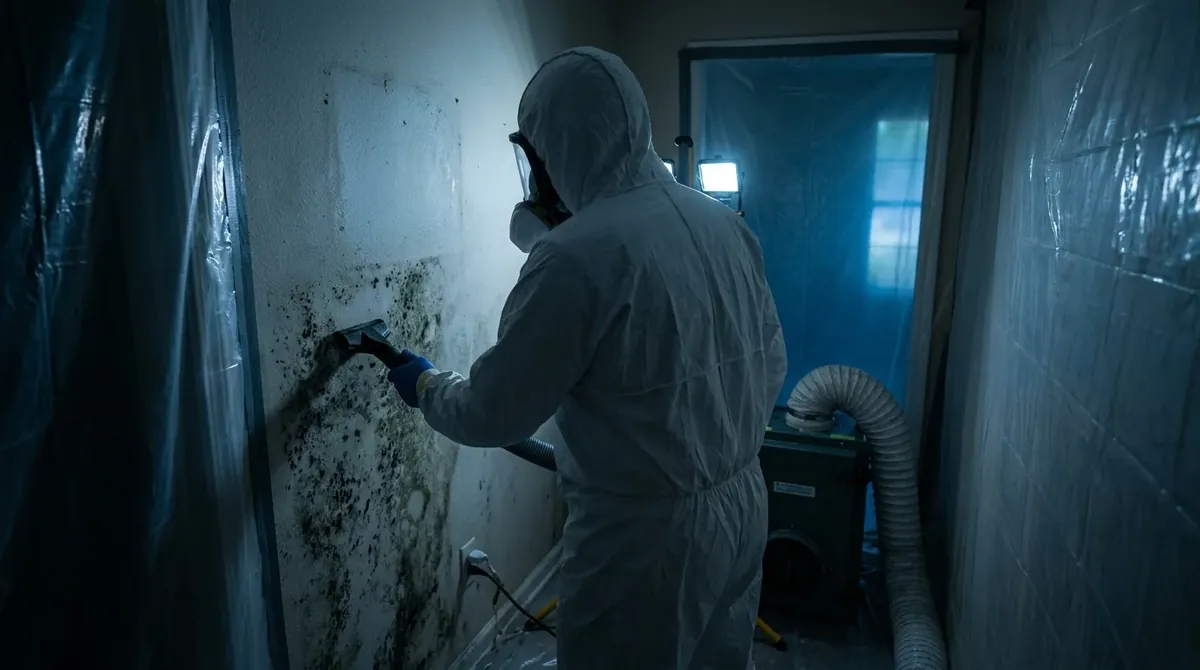
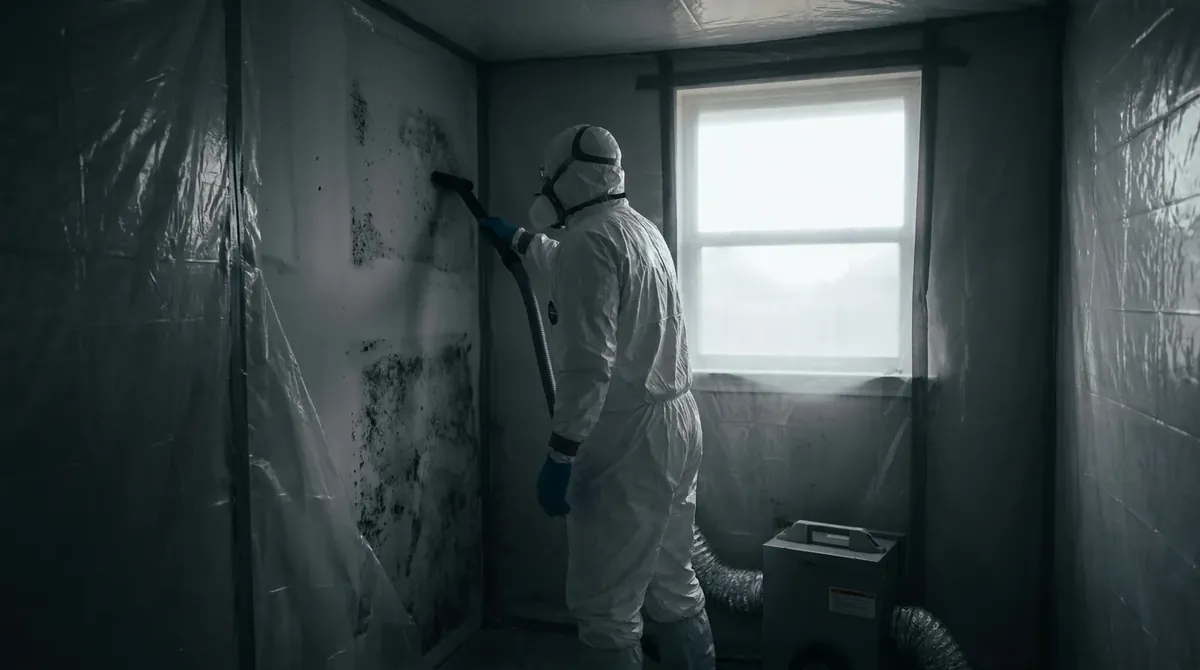
DEV AGENT: reign-restoration — brighter sky on the mold hero (Jerrott's 08-08 ask)
Jerrott: "Can we also change the sky from dark gloomy to brighter?" —
said of the mold remediation service-page hero. Encoded as CLIENT
DIRECTION rule 6 (within the 8000-char head cap, at ~5.3k) plus a scoped
carve-out on the MOOD-OVERRIDE line, so the correction survives future
regenerations instead of living only in this commit.

Regenerated the image. Attempt 1 rejected: exterior through the window
still read dark blue-grey gloom. Accepted attempt 2: bright soft-daylight
sky through the containment window, clearly lighter than the frame's
shadows, while the interior grade stays low-key. Rule 5 (containment
depicted truthfully) holds: nozzle works the exposed mold-stained wall
directly, poly sheeting is the room barrier only. PPE sealed, hood up.

astro build: 146 pages green.

diff --git a/clients/reign-restoration/image-style-guide.md b/clients/reign-restoration/image-style-guide.md
@@ -51,6 +51,7 @@
 3. **DARK, MOODY, EXPENSIVE.** Low-key lighting, deep shadows, near-black values. Blue hour, overcast, twilight, or dim interiors lit by practical work lights — never bright midday sun, never a bright open sky, never a cheerful golden-hour postcard. Blacks and charcoals dominate the frame; warm gold is the ONLY accent colour. Luxury-automotive advertising applied to a restoration company: restrained, high-contrast, expensive.
 4. **NO STOCK-PHOTO CHEER.** Nobody smiles at the camera, nobody lines up for a posed group portrait. Crew wear all-black uniforms with a small gold chest mark.
 5. **MOLD CONTAINMENT MUST BE DEPICTED TRUTHFULLY (Jerrott Gray, 2026-08-06).** *"When you click on service page first photo for mold remediation, the man in the photo is vacuuming plastic covered mold. Containment is correct, but depiction of containment is not."* He is NOT objecting to the poly sheeting being present — he is saying you do not clean mold THROUGH the plastic. On the mold-remediation image the technician works the **EXPOSED, uncovered mold-stained surface directly** — HEPA-vacuum nozzle or scrub tool in contact with the bare contaminated wall, visible black/green mold growth on that surface. The clear poly-sheeting containment is the **barrier that walls off the room** — hung on the surrounding walls, stapled over the doorway, draped behind and beside the worker — and NEVER laid over, taped across, or covering the surface being cleaned. AUTOMATIC REJECT: any frame where the containment plastic covers the mold being worked, where the tool contacts the plastic instead of the exposed mold, or where the worker is cleaning a plastic-covered surface. The plastic is the wall of the tent, not the thing he vacuums.
+6. **THE MOLD-REMEDIATION IMAGE SKY IS BRIGHTER (Jerrott Gray, 2026-08-08).** *"Can we also change the sky from dark gloomy to brighter?"* — said of the mold remediation service-page hero. In that frame any visible sky reads BRIGHT: soft daylight or light overcast, clearly lighter than the frame's shadows. The grade stays restrained and expensive; the carve-out is the sky, not the mood. This outranks rule 3 and the MOOD-OVERRIDE sky clause for this image only. AUTOMATIC REJECT: a dark, gloomy or stormy sky in the mold-remediation image.
 
 ## THE LIVERY — one spec, copied exactly, every image (2026-08-05)
 
@@ -82,7 +83,7 @@ VAN-OVERRIDE: a fleet of two to three matching satin-BLACK cargo vans, black bum
 
 CREW-OVERRIDE: the technician wears an all-black company uniform (black work shirt, black work pants) with a small gold crest embroidered on the chest and clean fitted nitrile work gloves on BOTH hands whenever handling anything, working in low-key moody light with deep shadows, shown from behind or in three-quarter profile with the face turned away from the camera and never smiling at it; PPE is worn ONLY where the scene shows active remediation work, and where it appears it is FULLY SEALED: white Tyvek coverall zipped ALL the way to the throat with the zipper closed to the chin, hood UP and drawn over the head and hair, respirator strapped and sealed to the face, nitrile gloves ON BOTH HANDS and taped at the wrists, boot covers on. NOT ONE SQUARE INCH of the black company uniform, its gold chest crest, a collar, a T-shirt or any other garment may be visible anywhere through, under or above the suit: the suit is closed over all of it, and if a crest is showing then the suit is open and the image is REJECTED. A hood down, a suit unzipped or worn open like a jacket, a suit tied around the waist, a respirator worn with no hood, or bare hands touching anything is a REJECTED image. In a portrait, group or parked-fleet scene where nobody is working, the crew wear the black uniform and NO PPE at all
 
-MOOD-OVERRIDE: shot at blue hour or under heavy overcast in low-key cinematic light, deep shadows and near-black values, dark moody sky with no bright or blown-out highlights, graded like luxury-automotive advertising — expensive and restrained, never sunny or cheerful
+MOOD-OVERRIDE: shot at blue hour or under heavy overcast in low-key cinematic light, deep shadows and near-black values, dark moody sky with no bright or blown-out highlights, graded like luxury-automotive advertising — expensive and restrained, never sunny or cheerful — EXCEPT the mold-remediation service image, where per Jerrott (2026-08-08) any visible sky is BRIGHT (soft daylight or light overcast, never dark or gloomy) while the grade stays restrained
 
 ---
 
